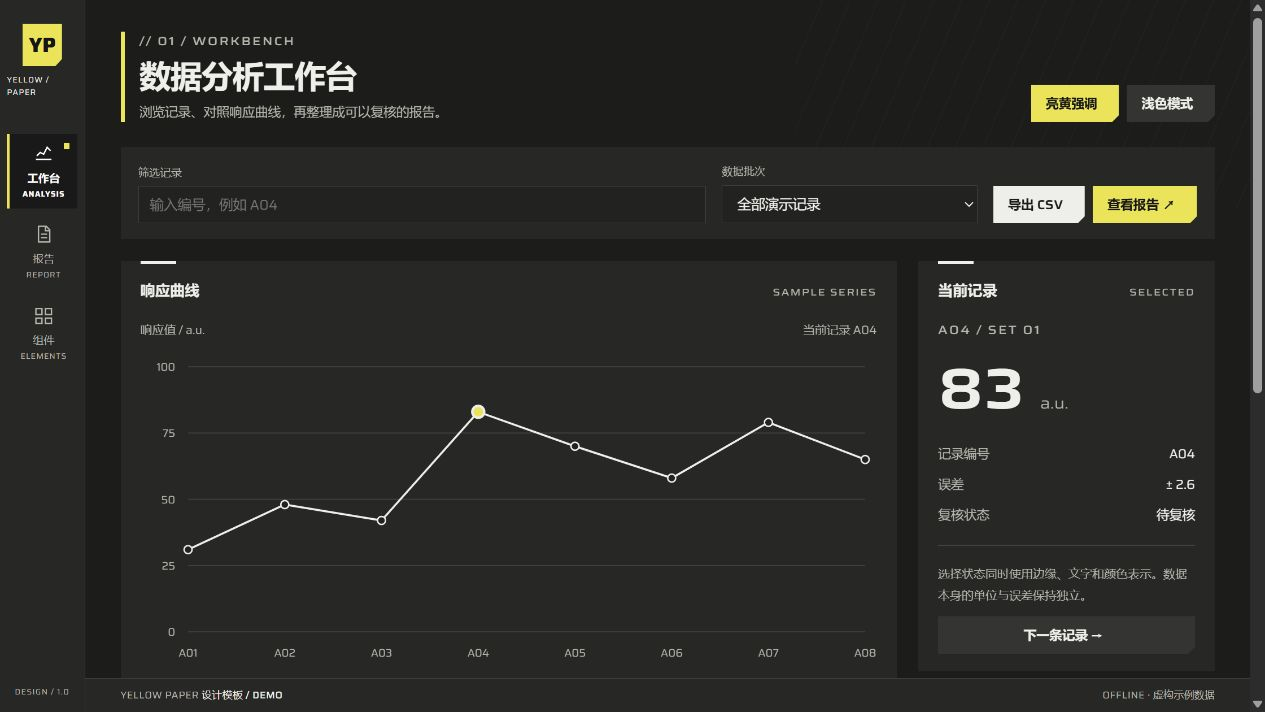
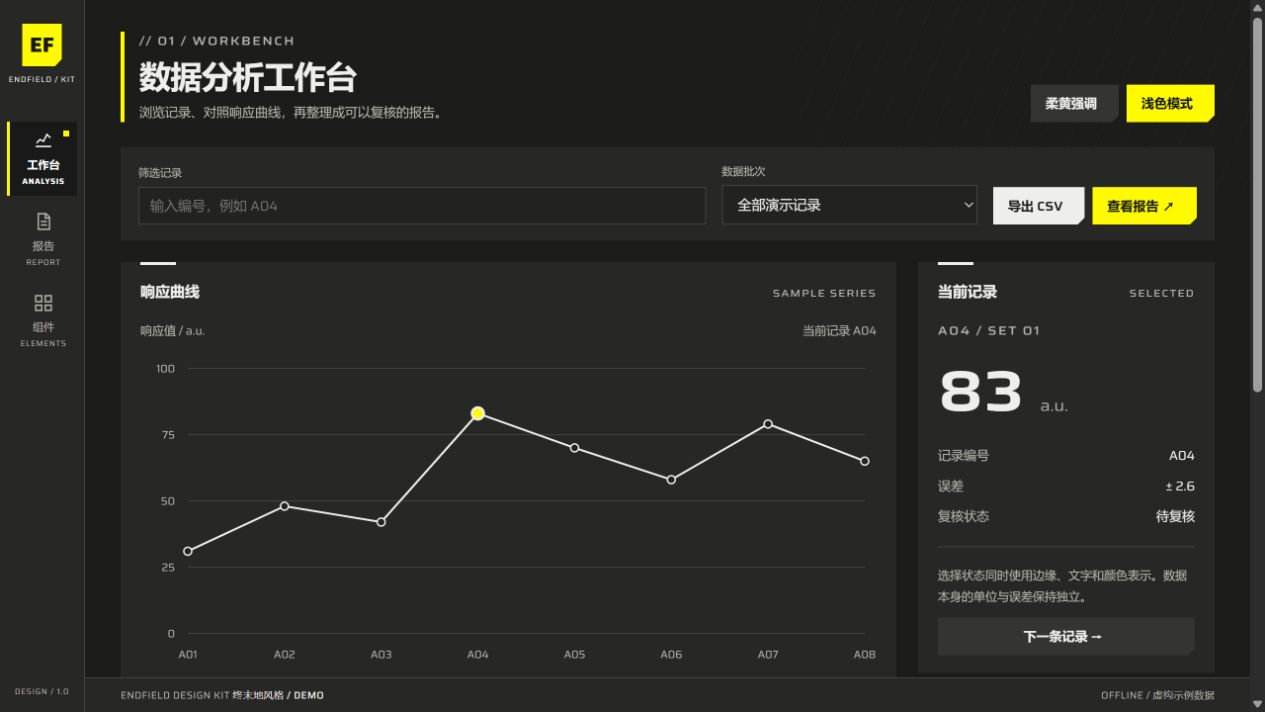
fix: verify portable installs and refresh product previews

diff --git a/tests/test_product.py b/tests/test_product.py
@@ -66,6 +66,14 @@ class ProductTests(TestCase):
         self.assertNotEqual(self.materialize('web', dest).returncode, 0)
         self.assertEqual(before, {p.name: p.read_bytes() for p in dest.rglob('*') if p.is_file()})
 
+    def test_materializer_supports_unicode_paths_on_ascii_console(self):
+        dest = self.base / '中文路径'
+        env = dict(os.environ, PYTHONIOENCODING='ascii', PYTHONUTF8='0')
+        result = subprocess.run([sys.executable, str(common.skill_root() / 'scripts/materialize.py'), '--kind', 'web', '--out', str(dest)], env=env, capture_output=True)
+        self.assertEqual(result.returncode, 0, result.stderr)
+        self.assertEqual(json.loads(result.stdout.decode('ascii'))['output'], str(dest))
+        self.assertTrue((dest / 'index.html').is_file())
+
     def test_slide_materialization_is_the_native_template(self):
         dest = self.base / 'slides'
         result = self.materialize('slides', dest)
@@ -108,9 +116,20 @@ class ProductTests(TestCase):
                 self.assertEqual(hashlib.sha256(package.read(prefix + name)).hexdigest(), expected)
             self.assertTrue(all(not any(token in name for token in ('.git/', 'tests/', '__pycache__', 'node_modules')) for name in package.namelist()))
 
+    def test_untracked_environment_and_bytecode_are_not_released(self):
+        mirror = self.base / 'source'
+        shutil.copytree(ROOT, mirror, ignore=shutil.ignore_patterns('.git', 'dist', '__pycache__'))
+        assets = common.skill_root(mirror) / 'assets'
+        (assets / '.env').write_text('EXAMPLE=' + 'private-test-value', encoding='utf-8')
+        (assets / 'local.pyc').write_bytes(b'not distributable')
+        archive = build_release.build(self.base / 'release', mirror)
+        with zipfile.ZipFile(archive) as package:
+            self.assertFalse(any(name.endswith(('.env', '.pyc')) for name in package.namelist()))
+
     def test_archive_paths_cannot_traverse(self):
-        with self.assertRaises(ValueError):
-            common.archive(self.base / 'invalid.zip', {'../escape.txt': b'x'})
+        for name in ('../escape.txt', '..\\escape.txt', '/escape.txt', 'C:/escape.txt'):
+            with self.assertRaises(ValueError):
+                common.archive(self.base / 'invalid.zip', {name: b'x'})
 
     def test_static_site_is_portable_and_excludes_developer_files(self):
         archive = build_site.build(self.base / 'public')

diff --git a/scripts/common.py b/scripts/common.py
@@ -36,6 +36,8 @@ def runtime_files(root=ROOT):
                 raise ValueError('Runtime symlinks are not distributed: ' + str(path))
             if any(part in IGNORED for part in path.relative_to(skill).parts) or path.suffix in ('.pyc', '.pyo'):
                 continue
+            if any(part.startswith('.') for part in path.relative_to(skill).parts) or path.name in ('.DS_Store', 'Thumbs.db'):
+                continue
             if path.is_file():
                 if not path.resolve().is_relative_to(skill):
                     raise ValueError('Runtime source escapes skill')
@@ -52,7 +54,7 @@ def archive(path, files, root_prefix='', date='2026-11-18'):
     with zipfile.ZipFile(path, 'w', zipfile.ZIP_STORED) as output:
         for relative, value in sorted(files.items()):
             name = PurePosixPath(root_prefix) / relative if root_prefix else PurePosixPath(relative)
-            if name.is_absolute() or '..' in name.parts:
+            if name.is_absolute() or '..' in name.parts or '\\' in str(name) or re.match(r'^[a-zA-Z]:', str(name)):
                 raise ValueError('Unsafe ZIP entry: ' + str(name))
             info = zipfile.ZipInfo(name.as_posix(), (year, month, day, 0, 0, 0))
             info.create_system = 3

diff --git a/skills/endfield-design-kit/scripts/materialize.py b/skills/endfield-design-kit/scripts/materialize.py
@@ -44,6 +44,6 @@ def main():
         target=destination/relative;target.parent.mkdir(parents=True,exist_ok=True)
         if isinstance(source,bytes):target.write_bytes(source)
         else:shutil.copy2(source,target)
-    print(json.dumps({'kind':args.kind,'output':str(destination),'files':len(files)},ensure_ascii=False))
+    print(json.dumps({'kind':args.kind,'output':str(destination),'files':len(files)},ensure_ascii=True))
 
 if __name__=='__main__':main()

diff --git a/scripts/build_release.py b/scripts/build_release.py
@@ -32,7 +32,7 @@ def main():
     parser.add_argument('--out', type=Path, default=ROOT / 'dist')
     args = parser.parse_args()
     target = build(args.out)
-    print(json.dumps({'archive': str(target), 'bytes': target.stat().st_size, 'sha256': sha256(target)}, ensure_ascii=False))
+    print(json.dumps({'archive': str(target), 'bytes': target.stat().st_size, 'sha256': sha256(target)}, ensure_ascii=True))
 
 if __name__ == '__main__':
     main()

diff --git a/scripts/build_site.py b/scripts/build_site.py
@@ -32,7 +32,7 @@ def main():
     parser.add_argument('--out', type=Path, default=ROOT / 'dist')
     args = parser.parse_args()
     target = build(args.out)
-    print(json.dumps({'archive': str(target), 'bytes': target.stat().st_size, 'sha256': sha256(target)}, ensure_ascii=False))
+    print(json.dumps({'archive': str(target), 'bytes': target.stat().st_size, 'sha256': sha256(target)}, ensure_ascii=True))
 
 if __name__ == '__main__':
     main()

diff --git a/scripts/install.py b/scripts/install.py
@@ -39,7 +39,7 @@ def main():
         target = install(args.skills_dir)
     except (OSError, ValueError) as exc:
         parser.exit(1, str(exc) + '\n')
-    print(json.dumps({'installed': str(target), 'invoke': '$' + config()['name']}, ensure_ascii=False))
+    print(json.dumps({'installed': str(target), 'invoke': '$' + config()['name']}, ensure_ascii=True))
 
 if __name__ == '__main__':
     main()
